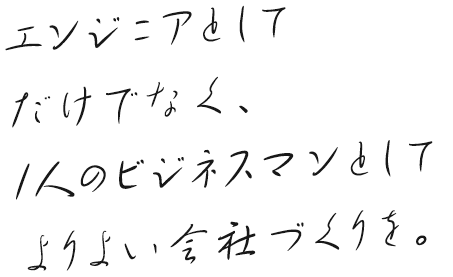
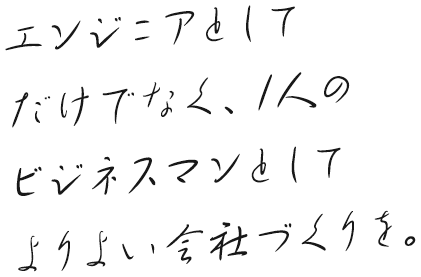
社員紹介ページNo.8〜12までのキャッチ画像内テキスト追加及びcssでの位置調整、キャッチ画像の微調整、誤字修正

diff --git a/pages/people_vol12.vue b/pages/people_vol12.vue
@@ -7,7 +7,7 @@
         title="一人一人の目指すキャリアを尊重してくれる。だから、私は前向きに働ける。"
         year="2018年入社 | 中途採用"
         name="S.S."
-        post="ITサポート"
+        post="IT事務サポート"
         class="vol12"
       />
       <DetailContent
@@ -16,7 +16,7 @@
         secondTitle="目標を設定し、<br>叶えるためにどのような筋道を立てるか"
         secondText="現在は大手車メーカーのシステム開発部にて、車のメンテナンスに関わるソフトウェアの運用と管理業務を行っております。事務職の経験をデスクワークで活かし、車載システムの通信の仕組みを日々勉強しながら、お客様が安全快適に車と関われるようソフトウェアの品質を支えています。現在、参画しているプロジェクトでは、自身の責任、業務的立場の責任について考えることを大切にしています。他部署や協力会社と関わる仕事では、各担当の業務責任について常に“責任の所在”を意識しながら、無責任な責任を請け負わないよう注意しています。一方で自分自身が何か問題に直面した際は、責任感を持って向き合うことで自身が成長できると考えています。その成長によって、自分の力のみで可能になる行動領域を広げたいと思っています。"
         thirdTitle="ポジティブな雰囲気が<br>ドリームビジョンの魅力"
-        thirdText="ドリームビジョンの一番良いところは、ポジティブな考え方と雰囲気があり、会社全体がどんな時も前を向いているところがだと感じています。本社にいる社員や各現場に所属する社員は、環境も業務もそれぞれ異なりますが、皆さんポジティブシンキングなところが共通しています。「次はこんなことをしよう！この技術を磨きたい！」という声がどの方面からも聞こえること、また、その気持ちを全力で応援してくれる雰囲気がこの会社にはあります。実際に資格取得や自己研鑽への補助など、福利厚生も手厚いところも良いところです。今後私は、Excel VBAプログラミングのスキルをあげて、事務業務等のルーチンワークにVBAツールを組み込むことで業務効率を上げたいです。また、プロジェクト先にで業務効率化を提案しながら、自分のアイデアを形にする技術を日々これからも勉強していこうと思います。"
+        thirdText="ドリームビジョンの一番良いところは、ポジティブな考え方と雰囲気があり、会社全体がどんな時も前を向いているところだと感じています。本社にいる社員や各現場に所属する社員は、環境も業務もそれぞれ異なりますが、皆さんポジティブシンキングなところが共通しています。「次はこんなことをしよう！この技術を磨きたい！」という声がどの方面からも聞こえること、また、その気持ちを全力で応援してくれる雰囲気がこの会社にはあります。実際に資格取得や自己研鑽への補助など、福利厚生も手厚いところも良いところです。今後私は、Excel VBAプログラミングのスキルをあげて、事務業務等のルーチンワークにVBAツールを組み込むことで業務効率を上げたいです。また、プロジェクト先にで業務効率化を提案しながら、自分のアイデアを形にする技術を日々これからも勉強していこうと思います。"
         class="vol12"
       />
       <ThePeopleSlider

diff --git a/pages/people_vol8.vue b/pages/people_vol8.vue
@@ -15,7 +15,7 @@
         firstText="前職では、建築業界で約３年、営業をしていました。主な仕事内容としては、新規既存顧客への訪問営業、見積もり作成、現場監督、図面作成など多岐にわたる業務を行っていました。IT業界に転職した理由は営業に就く前に、情報処理の専門学校に通っていたのですが、当時はITに抵抗感が、生まれてしまい、一度挫折してしまいました。転職を考えていた時に、再度IT業界に挑戦しようと考えていた時に、その時に出会ったのがドリームビジョンです。新人に対しての研修制度や、未経験から活躍している社員が多いこと、また会長や社長の想いに共感できたことが、入社の決め手になりました。"
         secondTitle="現場での環境が<br>日々の勉強意欲を高めている"
         secondText="現在はISPのバックボーンネットワークの設計構築運用を行っています。設定変更作業、作業手順書の作成、検証が主な業務になります。毎月いくつか作業があるので、それに応じて、現場の方へのヒアリング、要件整理を行い業務を進めています。<br>
-        また、プロジェクトに参画してから、自分の中で大きな変化がありました。それは、未経験の業界に転職して新しく覚えなければいけない知識がたくさんあるので、日々に勉強なんですが、それを続けていくことで今では習慣となり、新しい知識を覚えるのが楽しくなりました。勉強をすることで、業務に対するモチベーションや自分自身の成長意欲が付いたことが大きな変化だと感じています。"
+        また、プロジェクトに参画してから、自分の中で大きな変化がありました。それは、未経験の業界に転職して新しく覚えなければいけない知識がたくさんあるので、日々勉強なんですが、それを続けていくことで今では習慣となり、新しい知識を覚えるのが楽しくなりました。勉強をすることで、業務に対するモチベーションや自分自身の成長意欲が付いたことが大きな変化だと感じています。"
         thirdTitle="より良い会社にしていくことに<br>携わりたい"
         thirdText="ドリームビジョンは、エンジニアとして成長していく上で、必要な福利厚生が揃っていると思います。書籍補助申請、資格補助制度など、やる気さえあれば成長できる環境が整っています。私は待っているだけでなく、この環境を活かして自分自身が成長していくことが大切だと思います。<br>
         今後は、クラウド関係に携わっていきたいと思っており、勉強しいつでも即戦力に慣れるように、準備を進めたいと思っております。また、ネットワークエンジニアとして仕事をしていく上で、日本人以外の方との仕事も増えてくるので、英語のスキルが必要な場面が多くあると感じていました。ドキュメントを読む際や外国人のエンジニアが現場にいることもあるので、英語のスキルがあることで業務の効率化や円滑化に繋がること、自分がチャンスを掴める可能性が増えることがあるので、勉強していきたいと思います。"

diff --git a/components/People/DetailInfo.vue b/components/People/DetailInfo.vue
@@ -292,7 +292,7 @@
       .inner {
         padding: 110px 0 0;
         h2 {
-          margin: 0 0 90px -50px;
+          margin: 0 0 125px -50px;
         }
       }
       @include _mqmax() {
@@ -302,7 +302,7 @@
           padding: 36px 0 0;
           h2 {
             width: 182px;
-            margin: 0 0 130px 10px;
+            margin: 0 0 147px 10px;
             img {
               width: 100%;
             }
@@ -315,17 +315,17 @@
       .inner {
         padding: 110px 0 0;
         h2 {
-          margin: 0 0 90px -50px;
+          margin: 0 0 112px -50px;
         }
       }
       @include _mqmax() {
         background: url(~assets/img/people/detail/vol09/bg_detailInfo_sp.jpg) no-repeat top center;
         background-size: 90%;
         .inner {
-          padding: 36px 0 0;
+          padding: 70px 0 0;
           h2 {
-            width: 182px;
-            margin: 0 0 130px 10px;
+            width: 200px;
+            margin: 0 0 95px 15px;
             img {
               width: 100%;
             }
@@ -336,19 +336,19 @@
     &.vol10 {
       background: url(~assets/img/people/detail/vol10/bg_detailInfo_pc.jpg) no-repeat top center;
       .inner {
-        padding: 110px 0 0;
+        padding: 150px 0 0;
         h2 {
-          margin: 0 0 90px -50px;
+          margin: 0 0 141px -50px;
         }
       }
       @include _mqmax() {
         background: url(~assets/img/people/detail/vol10/bg_detailInfo_sp.jpg) no-repeat top center;
         background-size: 90%;
         .inner {
-          padding: 36px 0 0;
+          padding: 169px 0 0;
           h2 {
-            width: 182px;
-            margin: 0 0 130px 10px;
+            width: 280px;
+            margin: 0 0 32px 23px;
             img {
               width: 100%;
             }
@@ -361,17 +361,17 @@
       .inner {
         padding: 110px 0 0;
         h2 {
-          margin: 0 0 90px -50px;
+          margin: 0 0 120px -50px;
         }
       }
       @include _mqmax() {
         background: url(~assets/img/people/detail/vol11/bg_detailInfo_sp.jpg) no-repeat top center;
         background-size: 90%;
         .inner {
-          padding: 36px 0 0;
+          padding: 182px 0 0;
           h2 {
-            width: 182px;
-            margin: 0 0 130px 10px;
+            width: 220px;
+            margin: 0 0 12px 64px;
             img {
               width: 100%;
             }
@@ -384,17 +384,17 @@
       .inner {
         padding: 110px 0 0;
         h2 {
-          margin: 0 0 90px -50px;
+          margin: 0 0 104px -50px;
         }
       }
       @include _mqmax() {
         background: url(~assets/img/people/detail/vol12/bg_detailInfo_sp.jpg) no-repeat top center;
         background-size: 90%;
         .inner {
-          padding: 36px 0 0;
+          padding: 80px 0 0;
           h2 {
             width: 182px;
-            margin: 0 0 130px 10px;
+            margin: 0 0 60px 10px;
             img {
               width: 100%;
             }
